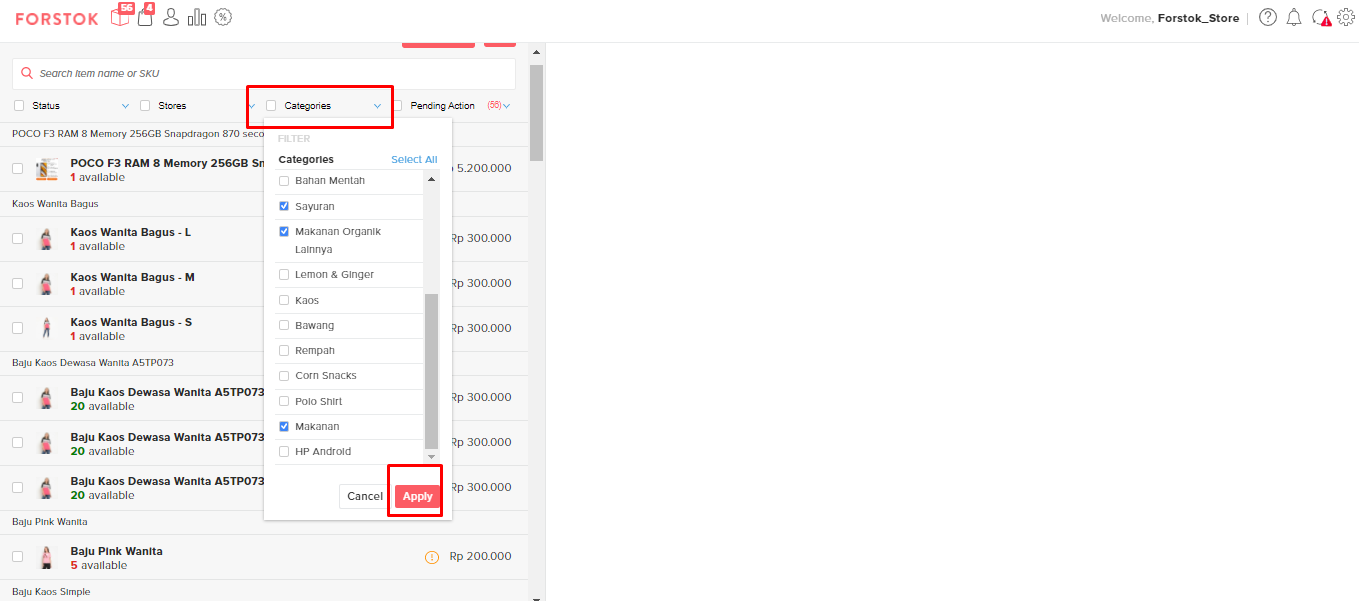
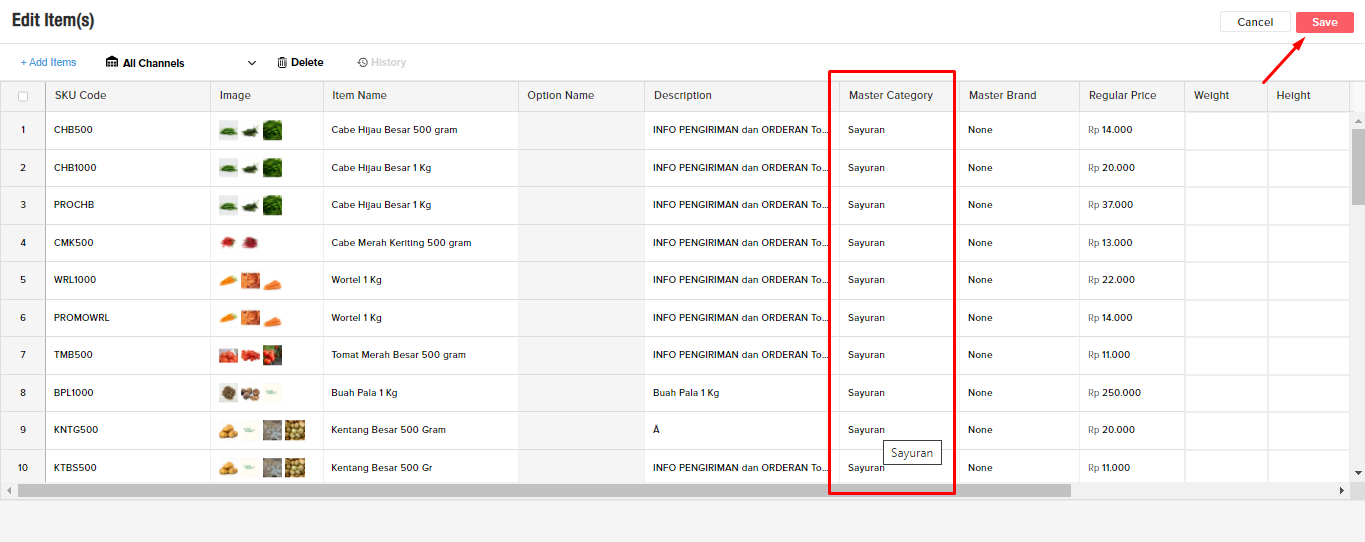
GitBook: [master] 160 pages and 2 assets modified

diff --git a/knowledge-base/items/merubah-category-master-via-interface.md b/knowledge-base/items/merubah-category-master-via-interface.md
@@ -1,10 +1,14 @@
 # Merubah Category Master \(via Interface\)
 
-1. Pilih category yang akan di perbaiki, lalu apply
+1. Pilih category yang akan di perbaiki, lalu apply. Atau bisa pilih berdasakan kode sku. Lalu klik Edit Item
 
 ![](../../.gitbook/assets/image%20%28371%29.png)
 
 2. Centang checkbox sebelah kir atas untuk mengedit seluruh sku yang akan di edit categorynya , lalu pilih Edit Item pada opsi di bawah
 
 ![](../../.gitbook/assets/image%20%28370%29.png)
+
+3. Ganti category yang akan di rubah, lalu save. Maka category master tersebut akan berubah sesuai yang perbaruhi terbaru.
+
+![](../../.gitbook/assets/image%20%28372%29.png)
 
